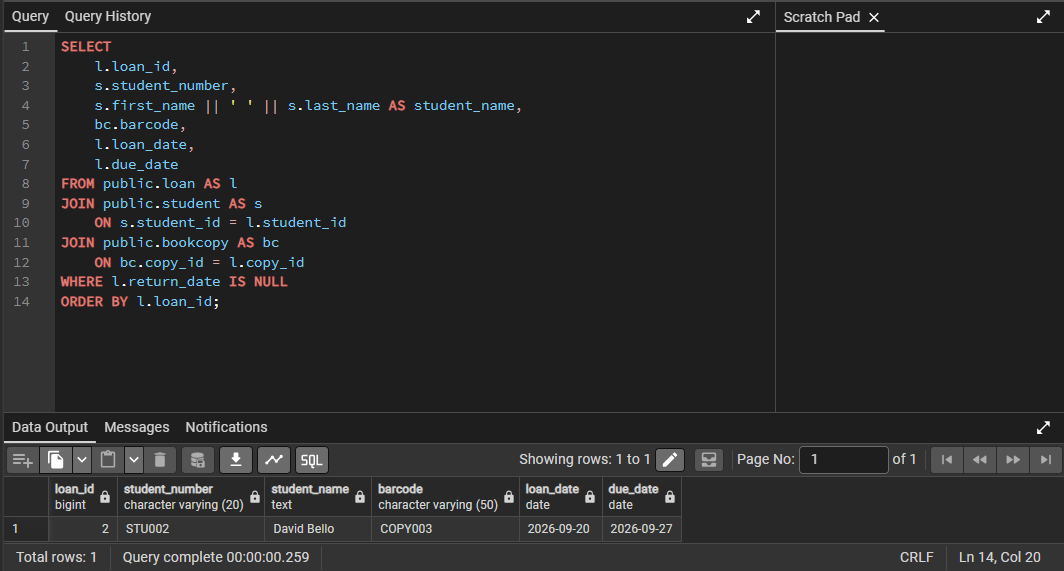
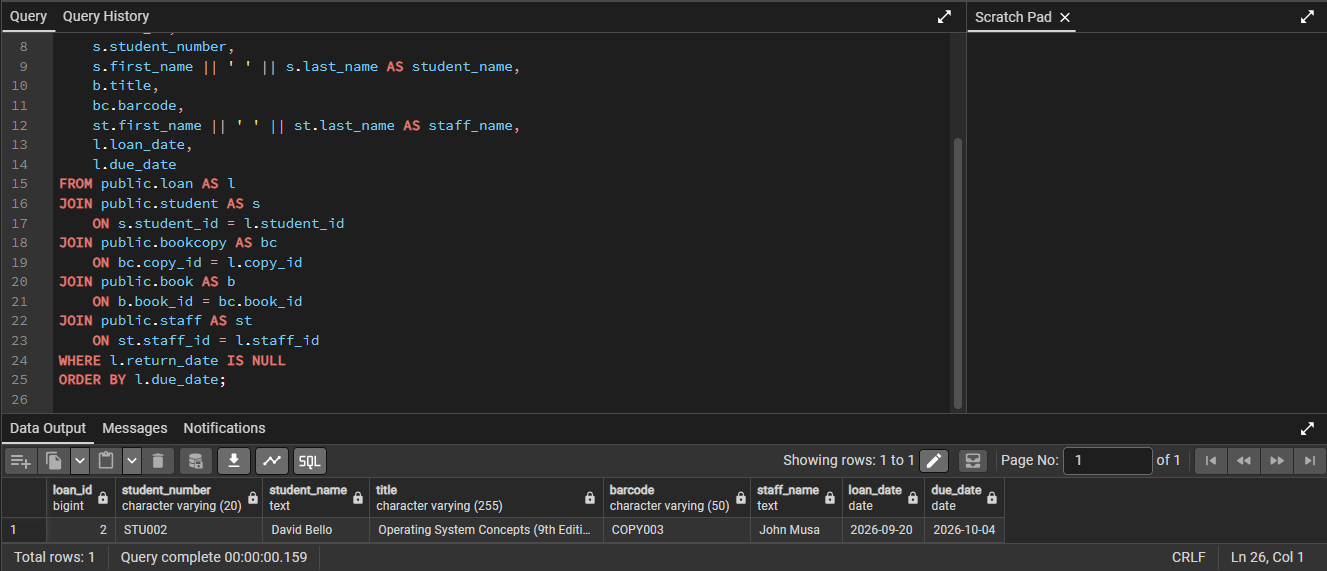
Update portfolio 1 and portfolio 2 evidence

diff --git a/Portfolio_2_Query_Optimisation/04_performance_analysis.md b/Portfolio_2_Query_Optimisation/04_performance_analysis.md
@@ -1,4 +1,3 @@
-
 # MIT8103 Advanced Database Systems
 
 ## Portfolio 2: Query Processing and Optimisation
@@ -10,9 +9,9 @@
 
 I tested five SQL queries to check the library inventory, active loans, overdue loans, fine payments and query performance.
 
-The inventory query returned three book titles with their categories, authors, total copies and available copies. The active-loan query returned one active loan. The overdue-loan query identified loan ID 2, belonging to David Bello, as 18 days overdue on 15 October 2026. At the configured daily rate of ₦100, the estimated fine was ₦1,800.
+The inventory query returned three book titles with their categories, authors, total copies and available copies. The active-loan query returned one active loan. The overdue-loan query identified loan ID 2, belonging to David Bello, as 12 days overdue on 16 October 2026. At the configured daily rate of ₦100, the estimated fine was ₦1,200.
 
-The fine-payment query returned two recorded fine entries. The outstanding balance for loan ID 2 was ₦1,200. This differs from the estimated fine because the overdue-loan query calculates the fine based on the number of overdue days, while the fine-payment query retrieves the balance recorded in the database.
+The fine-payment query returned two recorded fine entries. The outstanding balance for loan ID 2 was ₦1,200. This matches the estimated fine for 12 overdue days at ₦100 per day. The overdue-loan query calculates the estimated fine based on the number of overdue days, while the fine-payment query retrieves the balance recorded in the database.
 
 ### 2. Indexing Experiment
 
@@ -24,17 +23,19 @@ I also checked the existing partial index, `idx_loan_active_due_date`, which cov
 
 ### 3. Execution-Plan Analysis
 
-I examined the execution plan for the overdue-loan query to see how PostgreSQL processed it. The original test used a sequential scan on `loan`. The query returned one row, filtered out one row and recorded one shared buffer hit.
+I examined the execution plan for the overdue-loan query to see how PostgreSQL processed it. Both tests used a sequential scan on `loan`. The query returned one row, filtered out one row and recorded one shared buffer hit during execution.
 
 | Measurement | Original baseline | Repeat test |
 |---|---:|---:|
-| Execution time | 0.065 ms | 0.116 ms |
-| Planning time | 0.229 ms | 0.264 ms |
-| Shared buffers hit | 1 | 1 |
+| Execution time | 0.143 ms | 0.040 ms |
+| Planning time | 0.295 ms | 0.841 ms |
+| Shared buffers hit during execution | 1 | 1 |
+| Shared buffers hit during planning | Not reported | 76 |
 | Rows returned | 1 | 1 |
+| Rows removed by filter | 1 | 1 |
 | Scan method | Sequential | Sequential |
 
-The repeat test took 0.116 ms, compared with 0.065 ms in the original test. Although the execution time was higher, this difference does not establish a consistent change in performance. The dataset is small, and the two measurements alone are not enough to determine whether the query became slower.
+The repeat test took 0.040 ms, compared with 0.143 ms in the original test. Although the execution time was lower, this difference does not establish a consistent change in performance. Planning time increased from 0.295 ms to 0.841 ms, and the repeat test reported 76 shared buffer hits during planning. The dataset is small, and the two measurements alone are not enough to determine whether the query became faster.
 
 I also recorded the inventory query's execution time before and after creating the index and refreshing the table statistics with `ANALYZE`. The execution time was 0.678 ms before index creation, 0.647 ms after creating the index and 0.403 ms after running `ANALYZE`.
 
@@ -52,4 +53,4 @@ The tests also showed that creating an index does not automatically make a query
 
 This portfolio involved testing SQL queries, creating an index and examining query execution plans in the University Library Management System. I used the results to check query correctness and observe how PostgreSQL handled the queries before and after the database changes.
 
-The tests did not demonstrate a clear performance improvement from the new index. Since the dataset was small, a larger dataset and repeated tests under consistent conditions would be needed to assess its effectiveness more reliably. The results provide a record of the tests carried out and the execution behaviour observed, without claiming a performance improvement that the measurements do not establish.
+The tests did not demonstrate a clear performance improvement from the new index. Since the dataset was small, a larger dataset and repeated tests under consistent conditions would be needed to assess its effectiveness more reliably. The results provide a record of the tests carried out and the execution behaviour observed, without claiming a performance improvement which the measurements do not establish.

diff --git a/Portfolio_2_Query_Optimisation/05_query_results_and_execution_plans.md b/Portfolio_2_Query_Optimisation/05_query_results_and_execution_plans.md
@@ -21,17 +21,17 @@ The query returned one active loan for David Bello.
 
 | Loan ID | Student Number | Student Name | Book | Copy ID | Loan Date | Due Date |
 |---|---|---|---|---|---|---|
-| 2 | STU002 | David Bello | Operating System Concepts (9th Edition) | COPY003 | 2026-09-20 | 2026-09-27 |
+| 2 | STU002 | David Bello | Operating System Concepts (9th Edition) | COPY003 | 2026-09-20 | 2026-10-04 |
 
 ### 3. Overdue Loans Query
 
-As of 15 October 2026, the query identified one overdue loan.
+As of 16 October 2026, the query identified one overdue loan.
 
 | Loan ID | Student | Due Date | Days Overdue | Daily Rate | Estimated Fine |
 |---|---|---|---:|---:|---:|
-| 2 | David Bello | 2026-09-27 | 18 | ₦100.00 | ₦1,800.00 |
+| 2 | David Bello | 2026-10-04 | 12 | ₦100.00 | ₦1,200.00 |
 
-The estimated fine was calculated using the number of overdue days and the configured daily rate of ₦100.
+The estimated fine was calculated using the number of overdue days and the configured daily rate of ₦100. The due date follows the standard 14-day loan period.
 
 ### 4. Fine and Payment Query
 
@@ -42,7 +42,7 @@ The query returned two recorded fine entries.
 | 1 | 1 | Ada Okafor | ₦0.00 | ₦0.00 | ₦0.00 | PAID |
 | 2 | 2 | David Bello | ₦1,200.00 | ₦0.00 | ₦1,200.00 | UNPAID |
 
-For loan ID 2, the recorded outstanding balance was ₦1,200.00, while the overdue-loan query estimated a current fine of ₦1,800.00. The two values come from different queries: one retrieves the recorded fine balance, while the other calculates an estimate based on the overdue period.
+For loan ID 2, the recorded outstanding balance was ₦1,200.00. This matches the estimated fine for 12 overdue days at ₦100 per day as of 16 October 2026. The overdue-loan query calculates an estimate based on the overdue period, while the fine-payment query retrieves the recorded fine balance from the database.
 
 ### 5. Overdue-Loan Execution Plan
 
@@ -65,12 +65,12 @@ WHERE l.return_date IS NULL
 ```text
 Seq Scan on loan l
   (cost=0.00..1.03 rows=1 width=28)
-  (actual time=0.037..0.038 rows=1.00 loops=1)
+  (actual time=0.108..0.109 rows=1.00 loops=1)
   Filter: ((return_date IS NULL) AND (due_date < CURRENT_DATE))
   Rows Removed by Filter: 1
   Buffers: shared hit=1
-Planning Time: 0.229 ms
-Execution Time: 0.065 ms
+Planning Time: 0.295 ms
+Execution Time: 0.143 ms
 ```
 
 **Repeat test results**
@@ -78,15 +78,17 @@ Execution Time: 0.065 ms
 ```text
 Seq Scan on loan l
   (cost=0.00..1.03 rows=1 width=28)
-  (actual time=0.034..0.036 rows=1.00 loops=1)
+  (actual time=0.026..0.027 rows=1.00 loops=1)
   Filter: ((return_date IS NULL) AND (due_date < CURRENT_DATE))
   Rows Removed by Filter: 1
   Buffers: shared hit=1
-Planning Time: 0.264 ms
-Execution Time: 0.116 ms
+Planning:
+  Buffers: shared hit=76
+Planning Time: 0.841 ms
+Execution Time: 0.040 ms
 ```
 
-Both plans used a sequential scan on `loan`, returned one row, filtered out one row and recorded one shared buffer hit. The total execution time increased from 0.065 ms to 0.116 ms in the repeat test. These measurements do not establish a consistent performance change, and the plan does not show the index being used.
+Both plans used a sequential scan on `loan`, returned one row, filtered out one row and recorded one shared buffer hit during execution. The total execution time decreased from 0.143 ms to 0.040 ms in the repeat test. Planning time increased from 0.295 ms to 0.841 ms, and the repeat test reported 76 shared buffer hits during planning. These measurements do not establish a consistent performance change, and the plan does not show the index being used.
 
 ### 6. Inventory Query Performance
 
